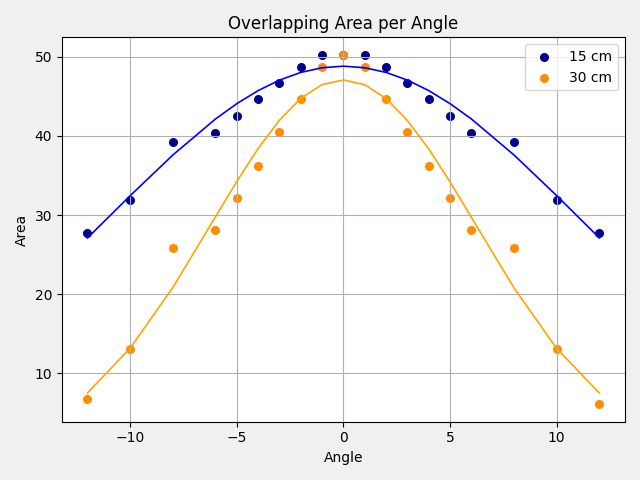
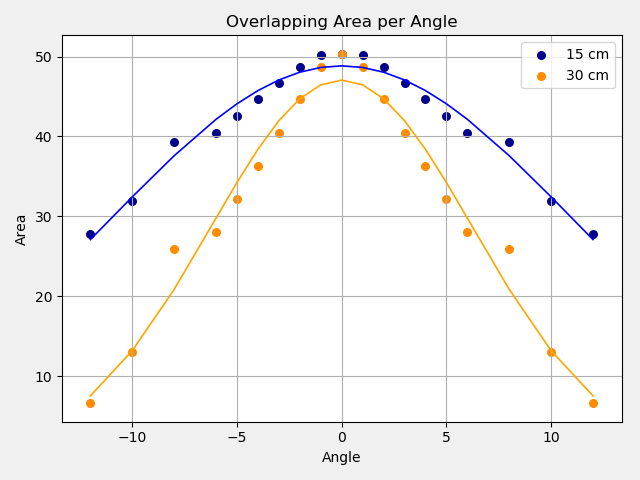
Fixing data point in Overlapping area analysis.

diff --git a/Nuke_Phys_UNT_Exp/Data/Overlapping_area_data_analysis.py b/Nuke_Phys_UNT_Exp/Data/Overlapping_area_data_analysis.py
@@ -10,7 +10,7 @@ overlapping_area_15 = np.array([27.79,31.96,39.26,40.41,42.53,44.63,46.70,
                            39.26,31.96,27.79])
 #         30 cm distance
 angles_30 = np.array([12,10,8,6,5,4,3,2,1,0,-1,-2,-3,-4,-5,-6,-8,-10,-12])
-overlapping_area_30 = np.array([6.07,13.01,25.87,28.05,32.12,36.26,40.45,44.64,
+overlapping_area_30 = np.array([6.70,13.01,25.87,28.05,32.12,36.26,40.45,44.64,
                            48.68,50.27,48.68,44.64,40.45,36.26,32.12,28.05,
                            25.87 ,13.01,6.70])
 #####################         PLOT          #############################
